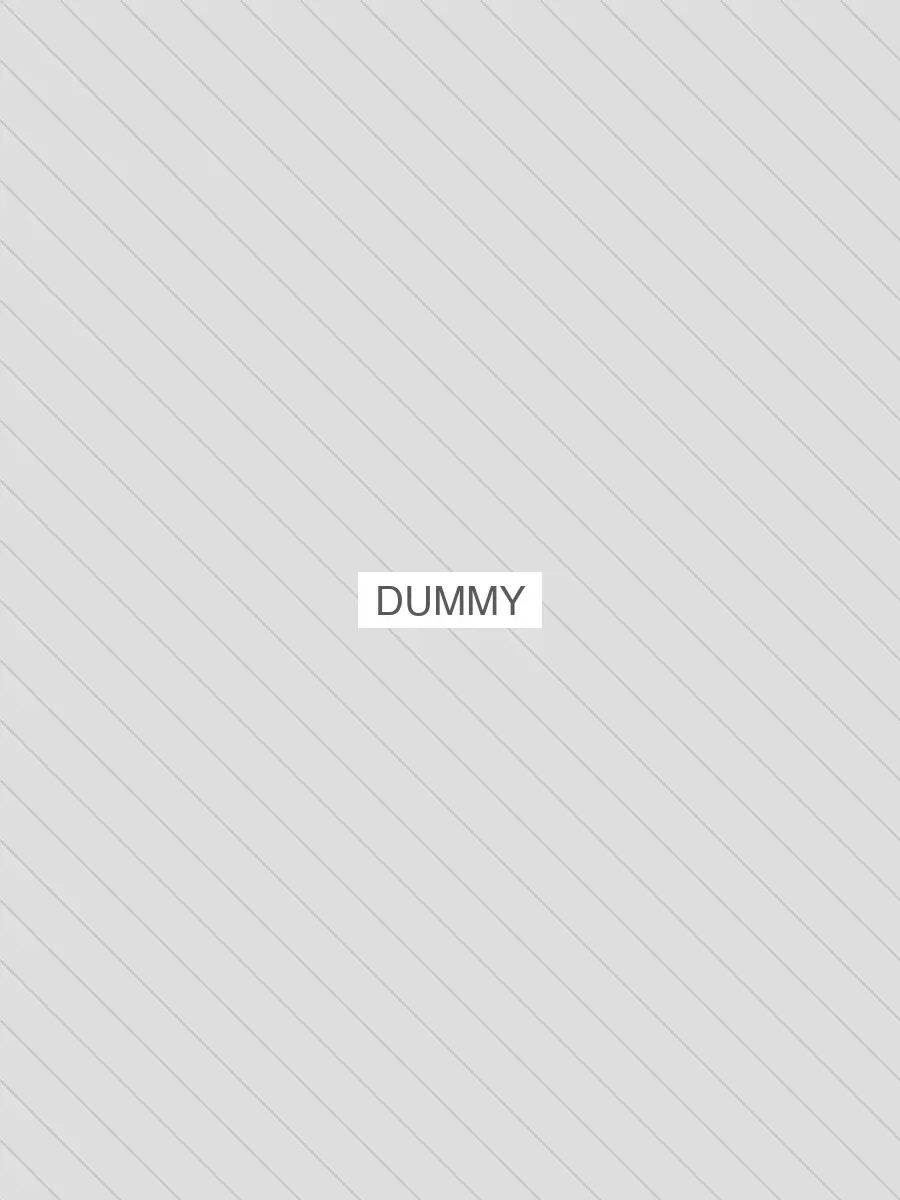
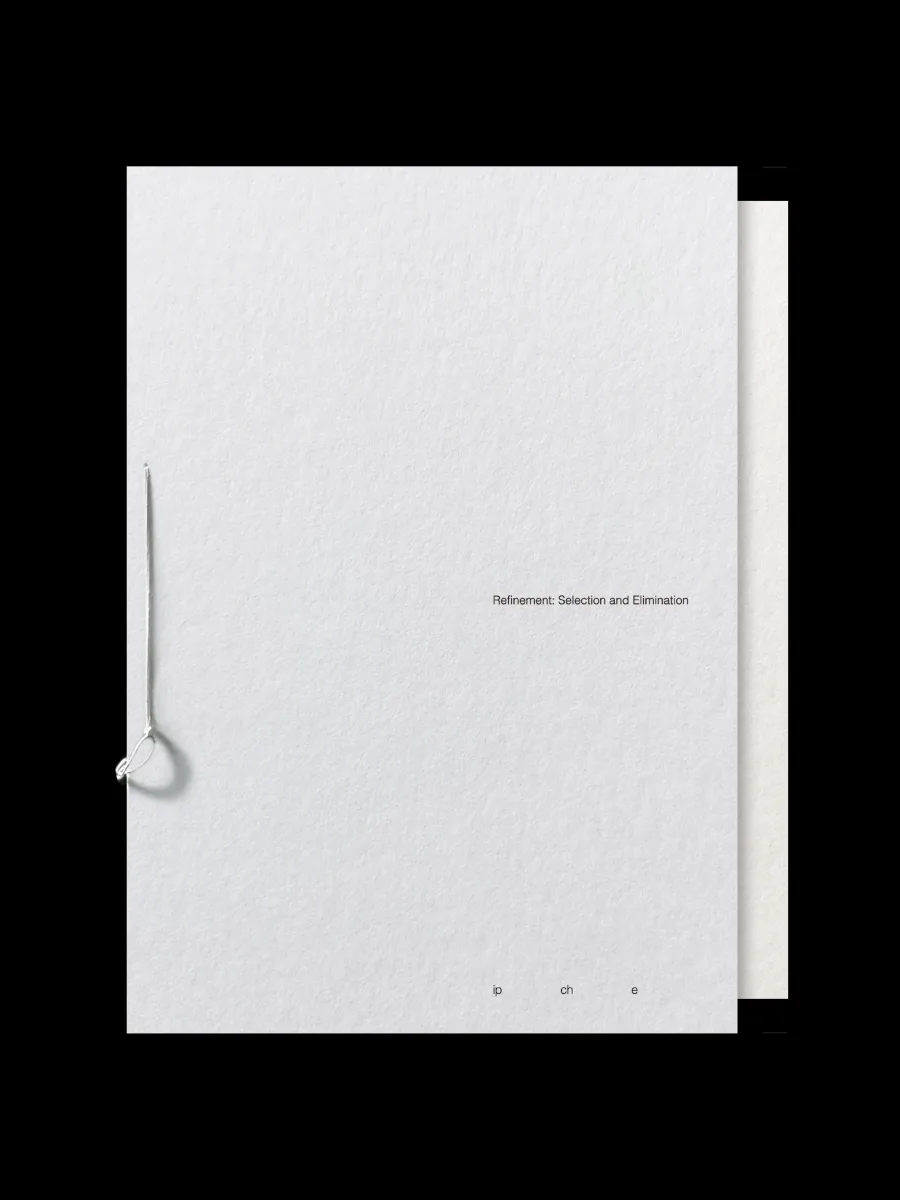
feat: 황철호 작품 정보 및 이미지 최적화
- 황철호 실제 작품 소개/설명/연락처로 플레이스홀더 대체
- 원본 미압축 이미지(최대 8.8MB)를 WebP로 재인코딩 및 리사이즈

diff --git a/src/data/works.ts b/src/data/works.ts
@@ -345,12 +345,14 @@ const rawWorks: WorkInput[] = [
   {
     // TODO: dummy placeholder data — replace with 황철호's real title/keyword/description/contact/images
     name: '황철호',
-    title: '제목 미정',
+    title: 'Refinement : Selection and Elimination',
     slug: 'hwangchulho',
-    keyword: '100 Placeholders',
-    descriptionKo: '작품 설명이 아직 준비되지 않았습니다.',
-    descriptionEn: 'Description coming soon.',
-    contact: '',
+    keyword: '100 Forms',
+    descriptionKo:
+      '『Refinement : Selection and Elimination』은 디자인 아카이브 ‘입체(ipche)’를 바탕으로 형태와 취향, 그리고 삶의 태도 사이의 관계를 탐구한 기록이다. 가구, 오브제, 패션 등 다양한 분야의 형태를 수집하고 분석하는 과정에서, 나는 반복적으로 ‘정제된 형태’에 끌리고 있음을 발견했다. 장식을 덜어내고, 하나의 결정만으로 강한 인상을 만드는 형태들. 이 책은 그러한 취향이 어디에서 비롯되었는지 추적하는 과정에서 시작되었다. 연구를 통해 정제는 단순한 조형적 특징이 아니라 삶을 대하는 태도와도 연결되어 있음을 발견했다. 무엇을 남기고 무엇을 제거할 것인지를 선택하는 과정은 형태를 만드는 일뿐 아니라 자아를 형성하는 과정과도 닮아 있었다. 삶 속에 반복적으로 나타나는 ‘선택과 제거’의 구조를 살피고, 50개의 정제된 입체를 담고있다. 즉 아카이브이자, 정제를 통해 본질에 가까워지고자 하는 태도의 기록이다.',
+    descriptionEn:
+      '*Refinement: Selection and Elimination* is a record of an exploration into the relationship between form, taste, and one’s attitude toward life, based on the design archive ipche. Through collecting and analyzing forms from various fields—including furniture, objects, and fashion—I discovered that I was repeatedly drawn to “refined forms”: forms stripped of unnecessary decoration, capable of making a strong impression through a single decisive choice. This book began with an attempt to trace where this preference came from. Through my research, I came to understand that refinement is not merely a formal quality, but is also connected to an attitude toward life. The process of choosing what to retain and what to eliminate resembles not only the act of creating form, but also the process of shaping the self. By examining the recurring structure of “selection and elimination” in everyday life, this book presents 50 refined three-dimensional forms. In this sense, it is both an archive and a record of an attitude: a desire to move closer to the essence through the practice of refinement.',
+    contact: '@s_fe_ho',
   },
   {
     // TODO: dummy placeholder data — replace with 김민지's real title/keyword/description/contact/images
